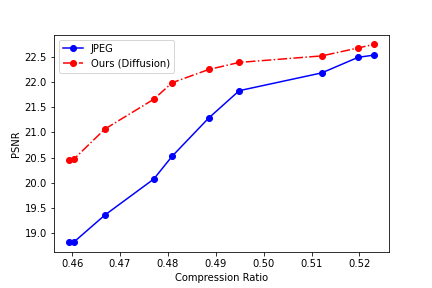
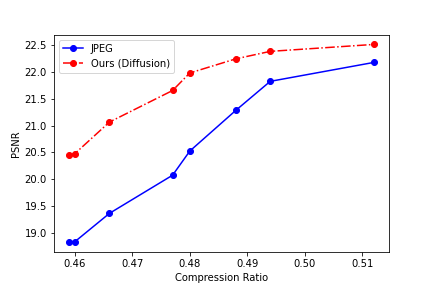
update

diff --git a/README.md b/README.md
@@ -3,15 +3,15 @@
 - no noise
 
 ```python
-comp_ratio = [0.459, 0.460, 0.466, 0.477, 0.480, 0.488, 0.494, 0.512, 0.519, 0.522,]
+comp_ratio = [0.459, 0.460, 0.466, 0.477, 0.480, 0.488, 0.494, 0.512]
 
-ssim_jpeg_list = [0.7527, 0.7548, 0.7608, 0.7707, 0.7880, 0.8085, 0.8127, 0.8258, 0.8292, 0.8319]
+ssim_jpeg_list = [0.7527, 0.7548, 0.7608, 0.7707, 0.7880, 0.8085, 0.8127, 0.8258]
 
-ssim_diff_list = [0.7854, 0.7868, 0.7969, 0.8074, 0.8098, 0.8223, 0.8257, 0.8300, 0.8378, 0.8404]
+ssim_diff_list = [0.7854, 0.7868, 0.7969, 0.8074, 0.8098, 0.8223, 0.8257, 0.8300]
 
-psnr_jpeg_list = [18.8271, 18.8364, 19.3633, 20.0757, 20.5261, 21.2845, 21.8268, 22.1790, 22.4879, 22.5301]
+psnr_jpeg_list = [18.8271, 18.8364, 19.3633, 20.0757, 20.5261, 21.2845, 21.8268, 22.1790]
 
-psnr_diff_list = [20.4525, 20.4799, 21.0669, 21.6561, 21.9831, 22.2463, 22.3862, 22.5154, 22.6728, 22.7423]
+psnr_diff_list = [20.4525, 20.4799, 21.0669, 21.6561, 21.9831, 22.2463, 22.3862, 22.5154]
 
 
 # test snr = 10
@@ -22,9 +22,7 @@ ssim_diff_list1 = [0.7868761852383613,
  0.8171511760354042,
  0.8210455983877182,
  0.8256680414080619,
- 0.8293704169988633,
- 0.8316923413872719,
- 0.8347115932703019]
+ 0.8293704169988633]
 
 psnr_diff_list1 = [20.400404739379884,
  20.39561743736267,
@@ -33,9 +31,7 @@ psnr_diff_list1 = [20.400404739379884,
  21.916497468948364,
  22.20316061973572,
  22.321339702606203,
- 22.44948492050171,
- 22.447235679626466,
- 22.55650444984436]
+ 22.44948492050171]
 
 # test snr = 20
 ssim_diff_list2 = [0.7845661699771881,
@@ -45,9 +41,7 @@ ssim_diff_list2 = [0.7845661699771881,
  0.8176458469033241,
  0.8229997292160988,
  0.8246623933315277,
- 0.8298508605837822,
- 0.8335487135648727,
- 0.8358279255628586]
+ 0.8298508605837822]
 
 psnr_diff_list2 = [20.43905701637268,
  20.440353918075562,
@@ -56,9 +50,7 @@ psnr_diff_list2 = [20.43905701637268,
  21.90460572242737,
  22.206147766113283,
  22.298089122772218,
- 22.442067050933836,
- 22.470946550369263,
- 22.55515151977539]
+ 22.442067050933836]
 
 # test snr = 30
 ssim_diff_list3 = [0.7854767933487892,
@@ -68,9 +60,7 @@ ssim_diff_list3 = [0.7854767933487892,
  0.8167323967814446,
  0.8201834455132484,
  0.8261356964707375,
- 0.8293342260122299,
- 0.8337876730561257,
- 0.836965415596962]
+ 0.8293342260122299]
 
 psnr_diff_list3 = [20.46505751609802,
  20.377599668502807,
@@ -79,9 +69,7 @@ psnr_diff_list3 = [20.46505751609802,
  21.92448854446411,
  22.18878331184387,
  22.345672798156738,
- 22.43310179710388,
- 22.496026849746706,
- 22.550580987930298]
+ 22.43310179710388]
 
 # test snr = 40
 
@@ -92,9 +80,7 @@ ssim_diff_list4 = [0.7870122998952865,
  0.817234013080597,
  0.8245720803737641,
  0.8269795313477516,
- 0.830491384088993,
- 0.8355799427628517,
- 0.8372495256066322]
+ 0.830491384088993]
 
 psnr_diff_list4 = [20.419608640670777,
  20.412261772155762,
@@ -103,7 +89,5 @@ psnr_diff_list4 = [20.419608640670777,
  21.925804567337035,
  22.19459972381592,
  22.291951513290407,
- 22.453868865966797,
- 22.534952640533447,
- 22.55202473640442]
+ 22.453868865966797]
 ```
